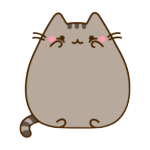
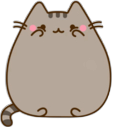
Fix flickering

diff --git a/lab1_sp/lab1_sp.cpp b/lab1_sp/lab1_sp.cpp
@@ -51,7 +51,8 @@ int CALLBACK WinMain(
     wc.hInstance = hInstance;
     wc.hIcon = LoadIcon(hInstance, IDI_APPLICATION);
     wc.hCursor = LoadCursor(NULL, IDC_ARROW);
-    wc.hbrBackground = (HBRUSH)(RGB(0, 0, 0));
+    wc.hbrBackground = (HBRUSH)(CreateSolidBrush(RGB(255, 255, 255)));
+
     wc.lpszMenuName = NULL;
     wc.lpszClassName = CLASS_NAME;
     wc.hIconSm = LoadIcon(wc.hInstance, IDI_APPLICATION);
@@ -70,6 +71,7 @@ int CALLBACK WinMain(
 
 
     HWND hwnd = CreateWindow(
+      
         CLASS_NAME,
         szTitle,
         WS_OVERLAPPEDWINDOW,
@@ -107,11 +109,10 @@ int CALLBACK WinMain(
 
 void InitializeSpriteSize()
 {
-    Image temp(L"1pushd.png");
+    Image temp(L"2pushd.png");
     if (temp.GetLastStatus() != Ok) {
-        // Обработка ошибки загрузки изображения
         MessageBox(NULL, L"Failed to load image!", L"Error", MB_ICONERROR);
-        // Можно предпринять другие действия, например, выход из приложения или установка альтернативного изображения
+   
         return;
     }
     spriteHeight = temp.GetHeight();
@@ -317,12 +318,16 @@ void OnPaint(HWND hWnd, WPARAM wParam, int x, int y, int w, int h)
     }
     PAINTSTRUCT ps;
     HDC hdc = BeginPaint(hWnd, &ps);
+
+
     HDC memDC = CreateCompatibleDC(hdc);
     HBITMAP hBmp = CreateCompatibleBitmap(hdc, rect.right, rect.bottom);
     HBITMAP mOldBmp = (HBITMAP)SelectObject(memDC, hBmp);
 
+   PatBlt(memDC, 0, 0, rect.right, rect.bottom, WHITENESS);
+
     Graphics graphics(memDC);
-    Image image(L"1pushd.png");
+    Image image(L"2pushd.png");
     Rect destRect(x, y, w, h);
     graphics.DrawImage(&image, destRect);
 
@@ -339,6 +344,9 @@ LRESULT CALLBACK WindowProc(HWND hWnd, UINT uMsg, WPARAM wParam, LPARAM lParam)
     {
         case WM_SIZE:
             ResizeWindow(lParam);
+            break;
+        case WM_ERASEBKGND:
+            return(1);
             break;
         case WM_LBUTTONDOWN:
             MouseDown(hWnd, lParam);
